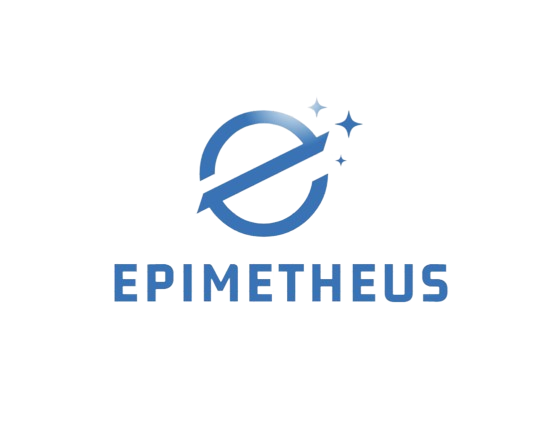
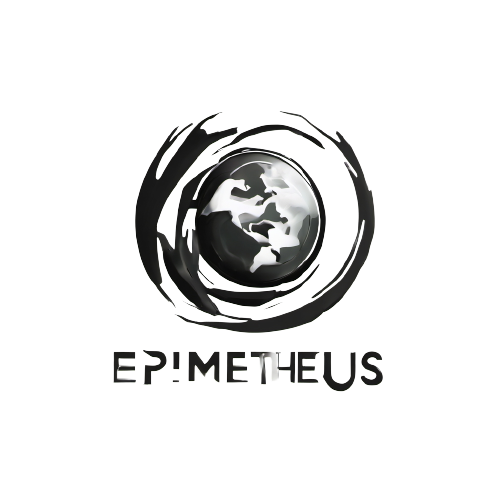
Changed Epimetheus Picture and delete useless datas and fix some errors

Changed region(s): [[0.18, 0.204, 0.81, 0.787]]

diff --git a/frontend/src/components/LoadingComponent.tsx b/frontend/src/components/LoadingComponent.tsx
@@ -2,7 +2,7 @@ import pulse from '../assets/pulse.gif';
 import styled from 'styled-components';
 
 const NowLoading = styled.img`
-    item-align: center;
+    align-items: center;
     margin: 0;
     margin-left: 47%;
     margin-right: 47%;
@@ -10,10 +10,7 @@ const NowLoading = styled.img`
     background-color: transparent;
     width: 6%;
     height: auto;
-
 `;
 export default function LoadingComponent() {
-    return (
-        <NowLoading src={pulse} alt="loading" />
-    );
+    return <NowLoading src={pulse} alt="loading" />;
 }

diff --git a/frontend/public/index.html b/frontend/public/index.html
@@ -2,7 +2,7 @@
 <html lang="en">
     <head>
         <meta charset="utf-8" />
-        <link rel="icon" href="%PUBLIC_URL%/favicon.ico" />
+        <link rel="icon" href="%PUBLIC_URL%/Epimetheus.png" />
         <meta name="viewport" content="width=device-width, initial-scale=1" />
         <meta name="theme-color" content="#000000" />
         <meta
